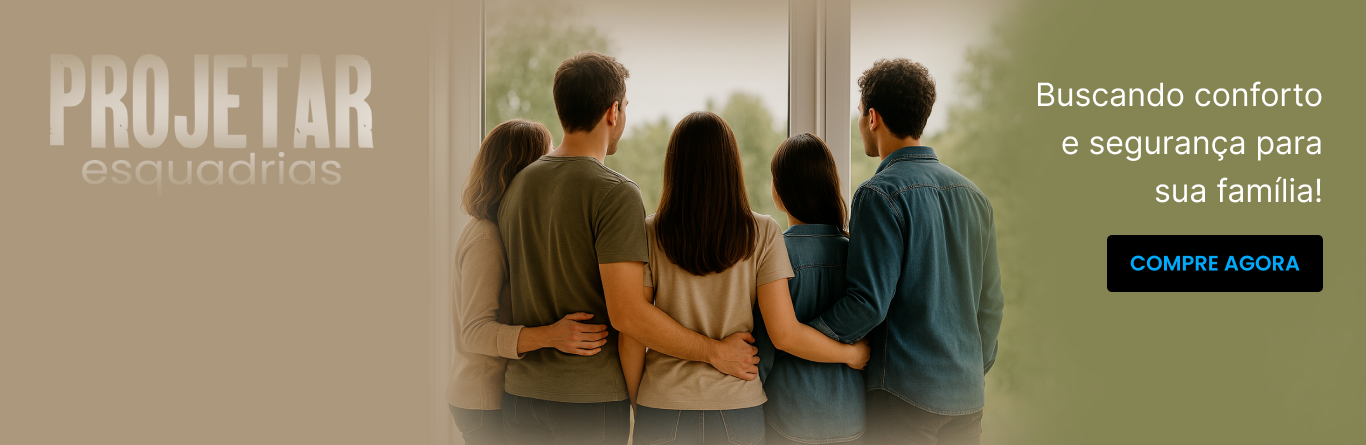
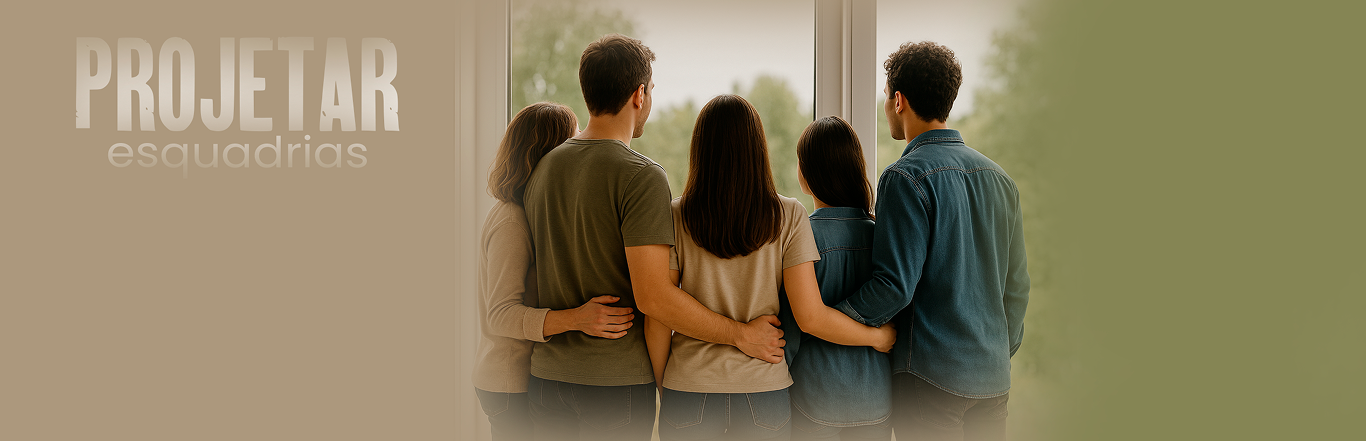
Aglgumas informações adicionada e alteradas
Alterei a foto do banner e adicionei uma pasta css para estilização, e ja comecei com o arquivo de reset

diff --git a/src/App.jsx b/src/App.jsx
@@ -1,5 +1,6 @@
 import { Header } from "./components/Header/index.jsx"
 import { BannerSection } from "./components/BannerSection/index.jsx"
+import "./style/style.css"
 function App() {
 
   return (

diff --git a/src/style/style.css b/src/style/style.css
@@ -1,0 +1,4 @@
+body{
+  margin: 0;
+  padding: 0;
+}
